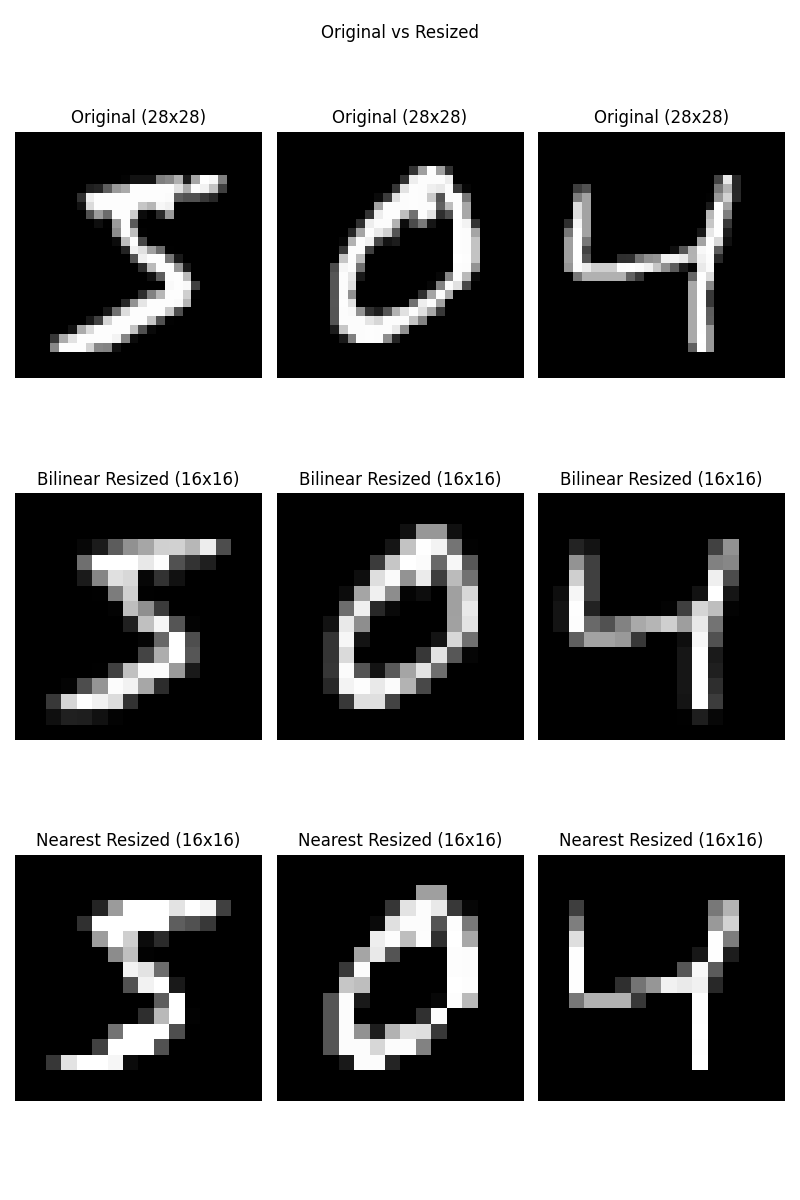
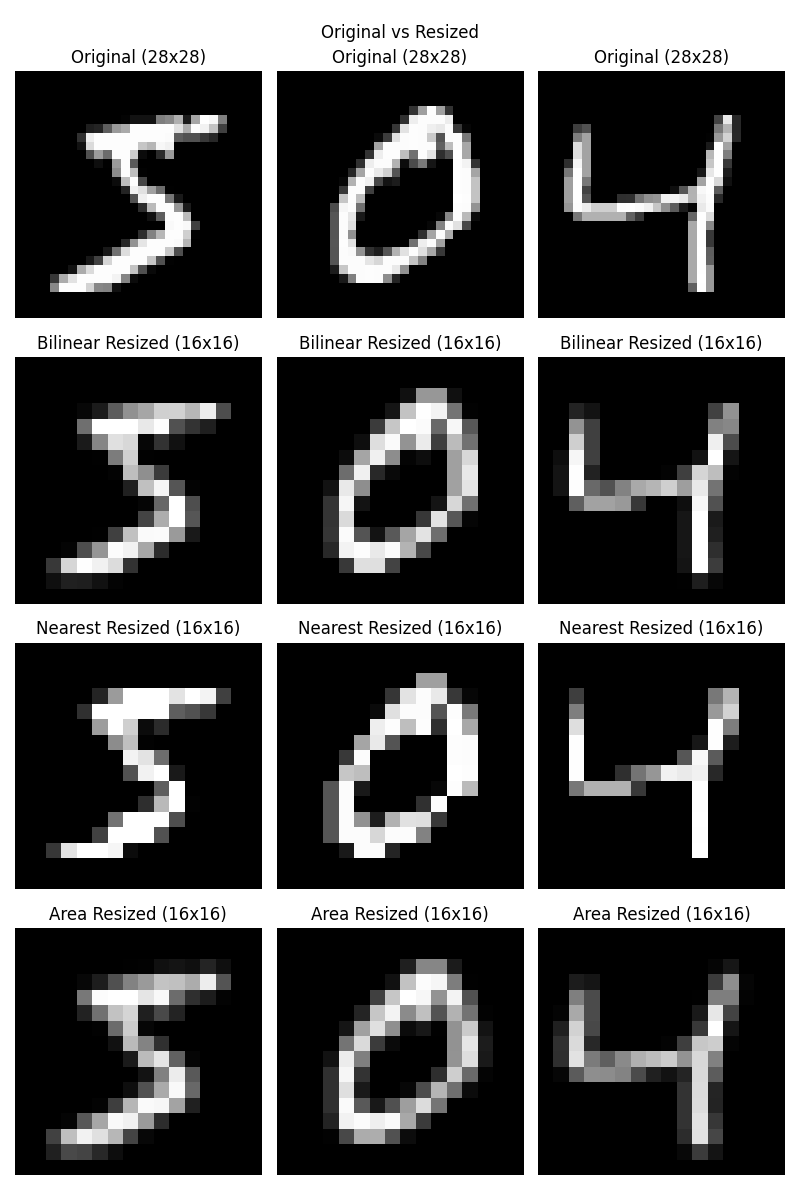
Add area resize

diff --git a/convolution_example/convolution_example.py b/convolution_example/convolution_example.py
@@ -3,9 +3,9 @@ import tensorflow as tf
 import matplotlib.pyplot as plt 
 from sklearn.decomposition import PCA
 
-def plot_comparison(original, bilinear, nearest, title="Comparison of Images"):
+def plot_comparison(original, bilinear, nearest,area, title="Comparison of Images"):
     num_images = len(original)
-    fig, axes = plt.subplots(3, num_images, figsize=(8, 4 * num_images))
+    fig, axes = plt.subplots(4, num_images, figsize=(8, 4 * num_images))
 
     for i in range(num_images):
         # Mostrar imagen original
@@ -22,6 +22,11 @@ def plot_comparison(original, bilinear, nearest, title="Comparison of Images"):
         axes[2, i].imshow(nearest[i], cmap="gray")
         axes[2, i].set_title("Nearest Resized (16x16)")
         axes[2, i].axis("off")
+
+        # Mostrar imagen redimensionada con interpolación nearest
+        axes[3, i].imshow(area[i], cmap="gray")
+        axes[3, i].set_title("Area Resized (16x16)")
+        axes[3, i].axis("off")
 
     plt.suptitle(title)
     plt.tight_layout()
@@ -43,6 +48,10 @@ x_train_sample_near_expanded = np.expand_dims(x_train_sample_normalized, axis=-1
 x_train_sample_near_resized = tf.image.resize(x_train_sample_near_expanded, (16, 16), method="nearest").numpy()
 x_train_sample_near_resized = np.squeeze(x_train_sample_near_resized, axis=-1)
 
+x_train_sample_area_expanded = np.expand_dims(x_train_sample_normalized, axis=-1)
+x_train_sample_area_resized = tf.image.resize(x_train_sample_area_expanded, (16, 16), method="area").numpy()
+x_train_sample_area_resized = np.squeeze(x_train_sample_area_resized, axis=-1)
 
-plot_comparison(x_train_sample, x_train_sample_bil_resized,x_train_sample_near_resized, "Original vs Resized")
+
+plot_comparison(x_train_sample, x_train_sample_bil_resized,x_train_sample_near_resized,x_train_sample_area_resized, "Original vs Resized")
 
